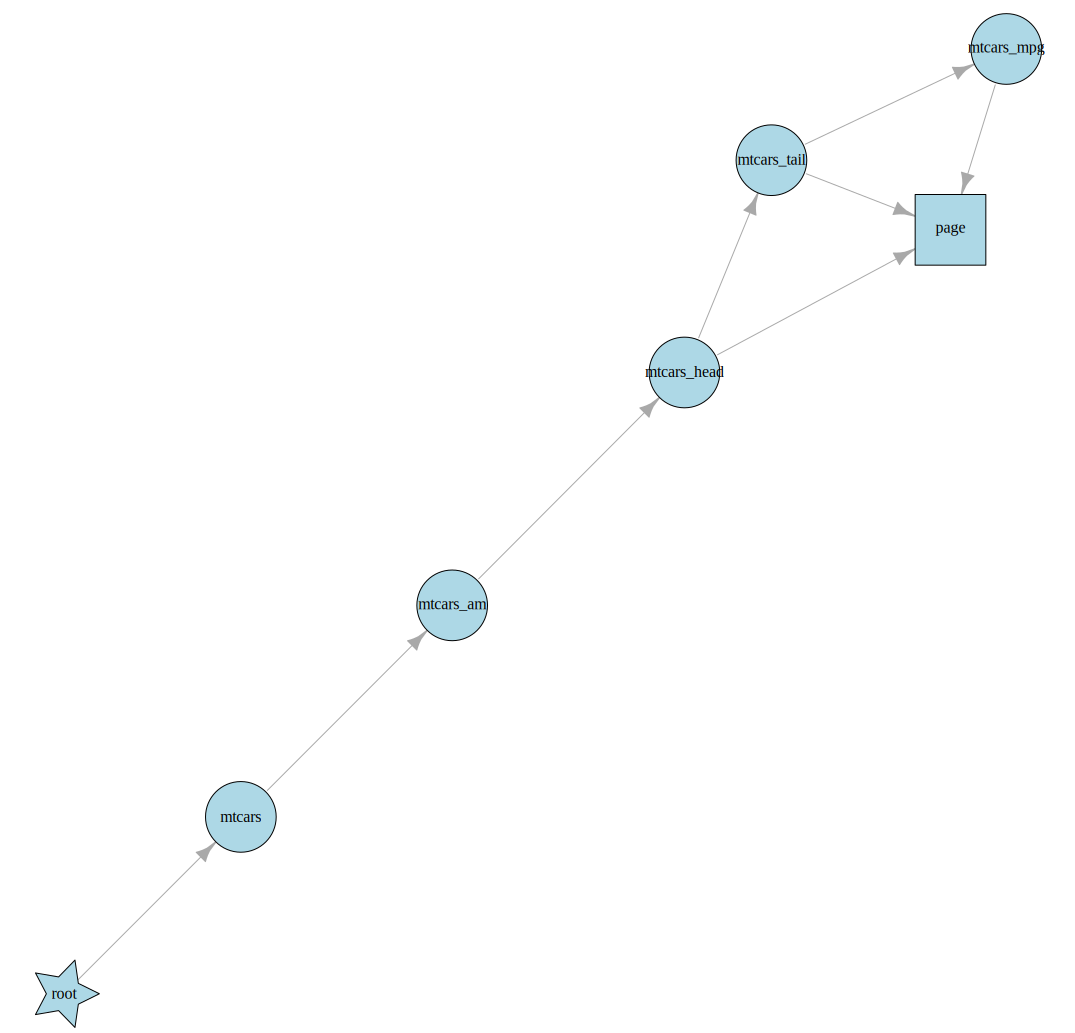
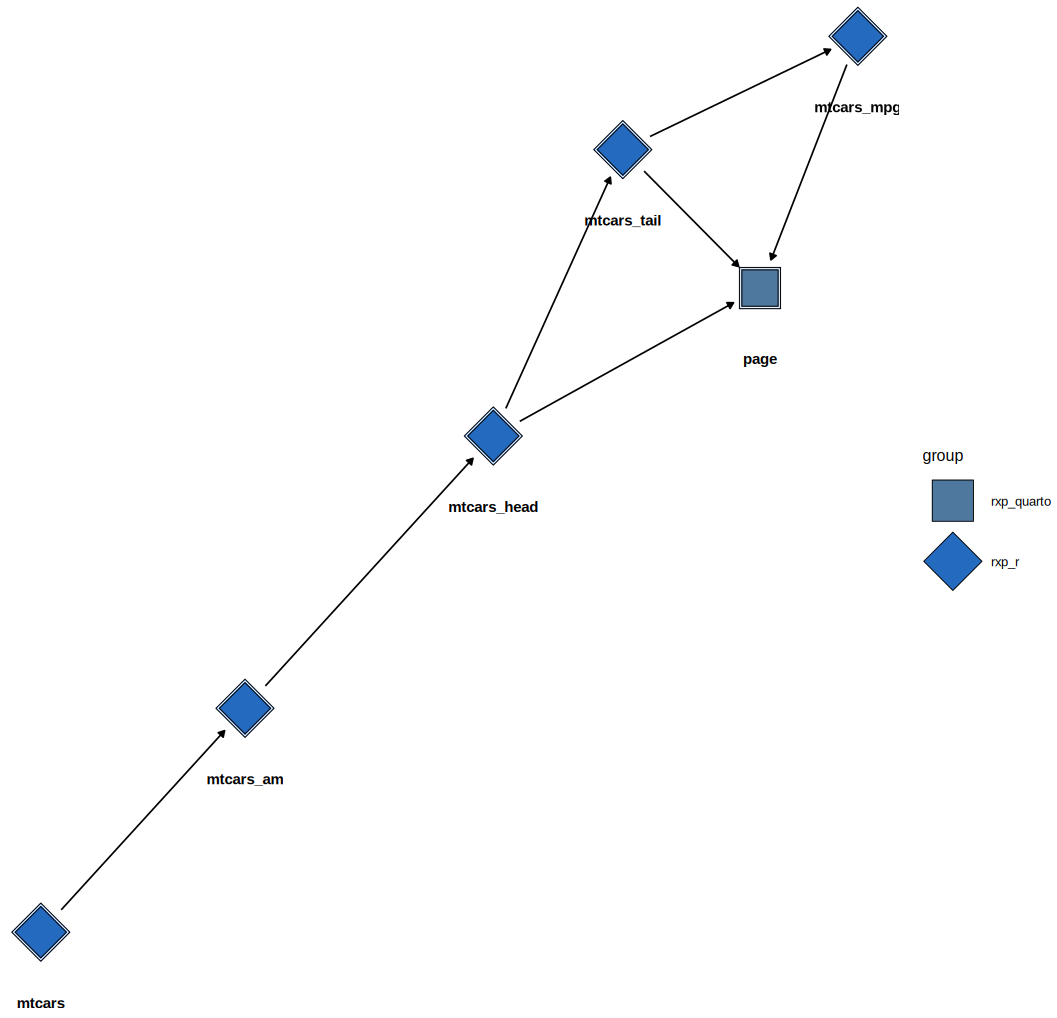
vignette

diff --git a/README.md b/README.md
@@ -82,11 +82,11 @@ pipeline’s DAG (Directed Acyclic Graph). You can visualize the pipeline
 using `plot_dag()`:
 
 ``` r
-plot_dag()
+rxp_ggdag()
 ```
 
 <figure>
-<img src="https://raw.githubusercontent.com/b-rodrigues/rixpress/refs/heads/master/dag.png" alt="DAG" />
+<img src="https://raw.githubusercontent.com/b-rodrigues/rixpress/refs/heads/main/dag.png" alt="DAG" />
 <figcaption aria-hidden="true">
 DAG
 </figcaption>
